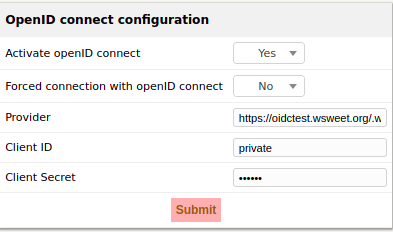
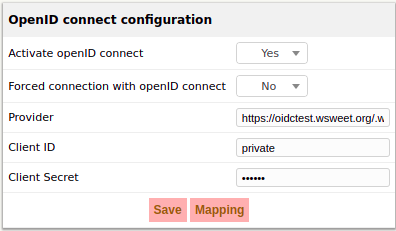
Add Mapping OIDC wiki

diff --git a/docs/oidc.md b/docs/oidc.md
@@ -11,7 +11,9 @@ a simple library that allows an application to authenticate a user through the b
 ## How to setup ITSM-NG with OpenID Connect
 
 ### Go to Setup/Authentication/OpenID connect authentication
-Here you have some options and fields to set.\
+## Configuration
+Here you have some options and fields to set.
+
 ![](img/oidc/oidc_config.png)
 ---
 ***⚠*** *Forced connection will redirect you directly when your are on the login page, to avoid this go to this link :*
@@ -20,7 +22,19 @@ http://xx.xx.xx.xx/itsm-ng/index.php?noAUTO=1
 ```
 ***⚠*** *The last 3 options need to be filled if you want use OpenID Connect*
 
+## Mapping
+
+Every openID connect have different names for the same field so the mapping page can help to set all information correctly!
+
+![](img/oidc/oidc_mapping.png)
+
+To force every OIDC users to update with the mapping sysyem use this command
+```
+php bin/console itsmng:oidc:update
+```
+
 When you set Acitvate OpenID connect to *yes* and submit it, you will have a new button on login page!
+
 
 ![](img/oidc/oidc_login.png) \
 If you click on *SSO Login* you will be redirected to your provider and you will be able to login. When it's done you have acces to ITSM-NG :-)
